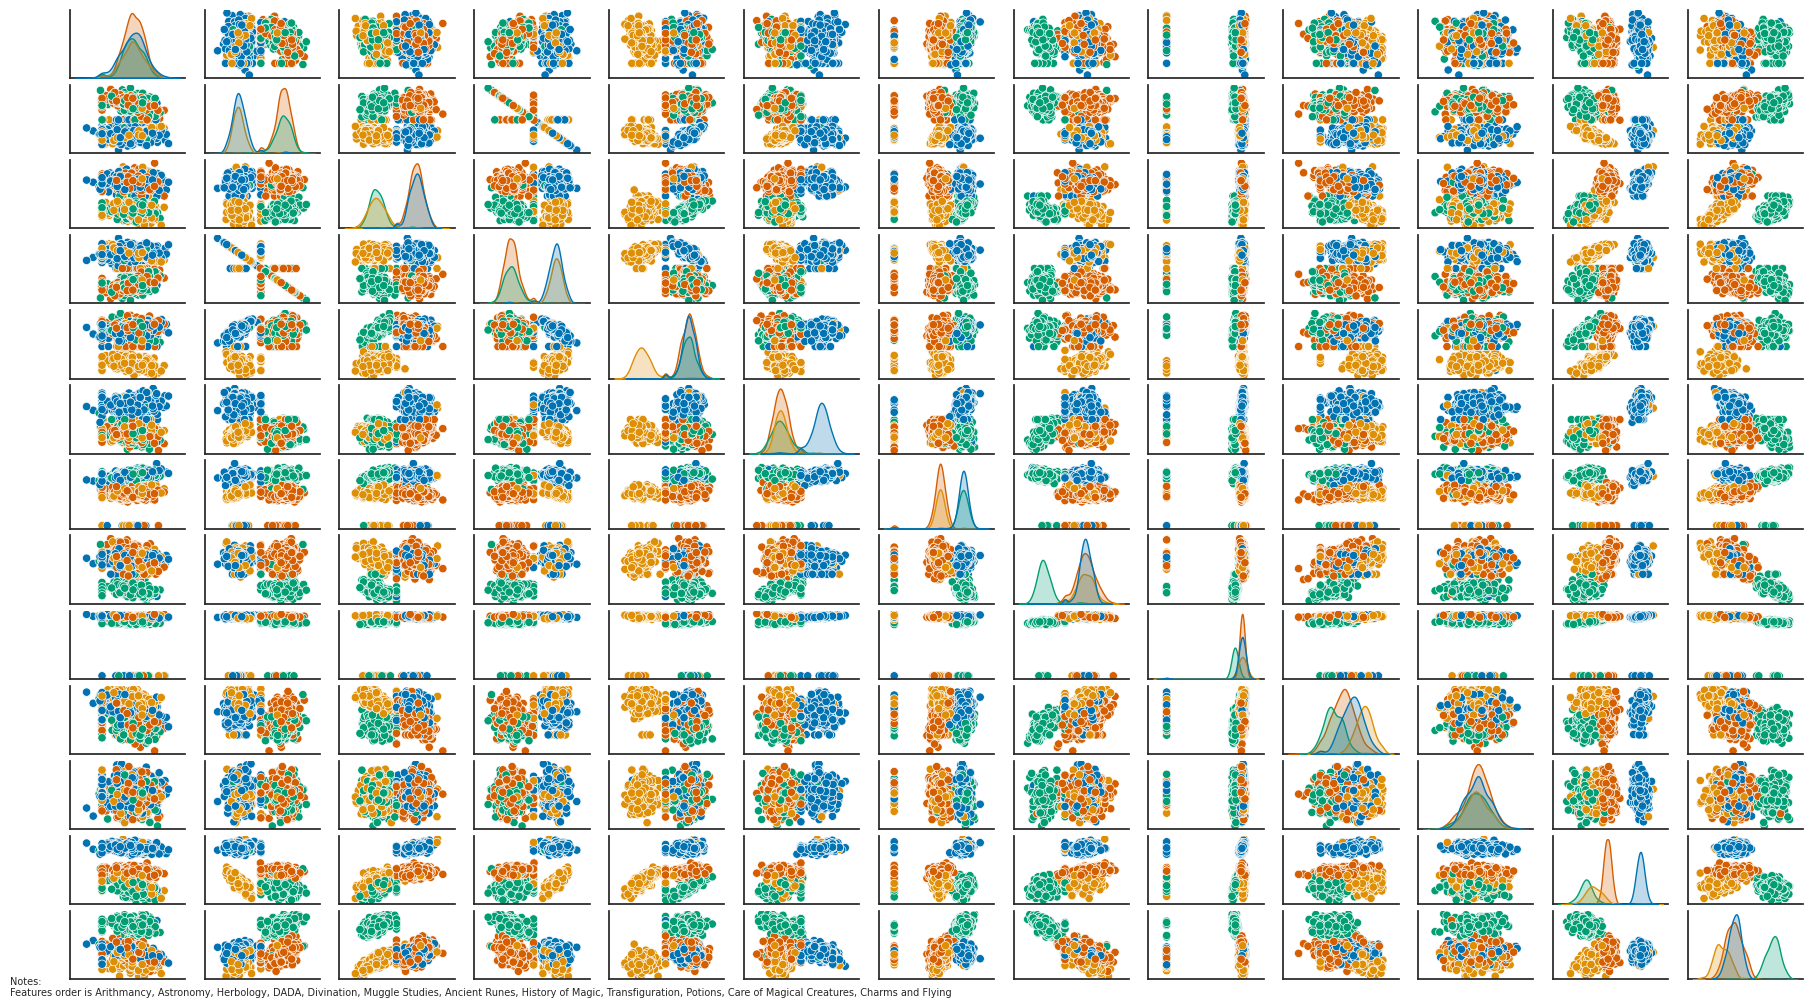
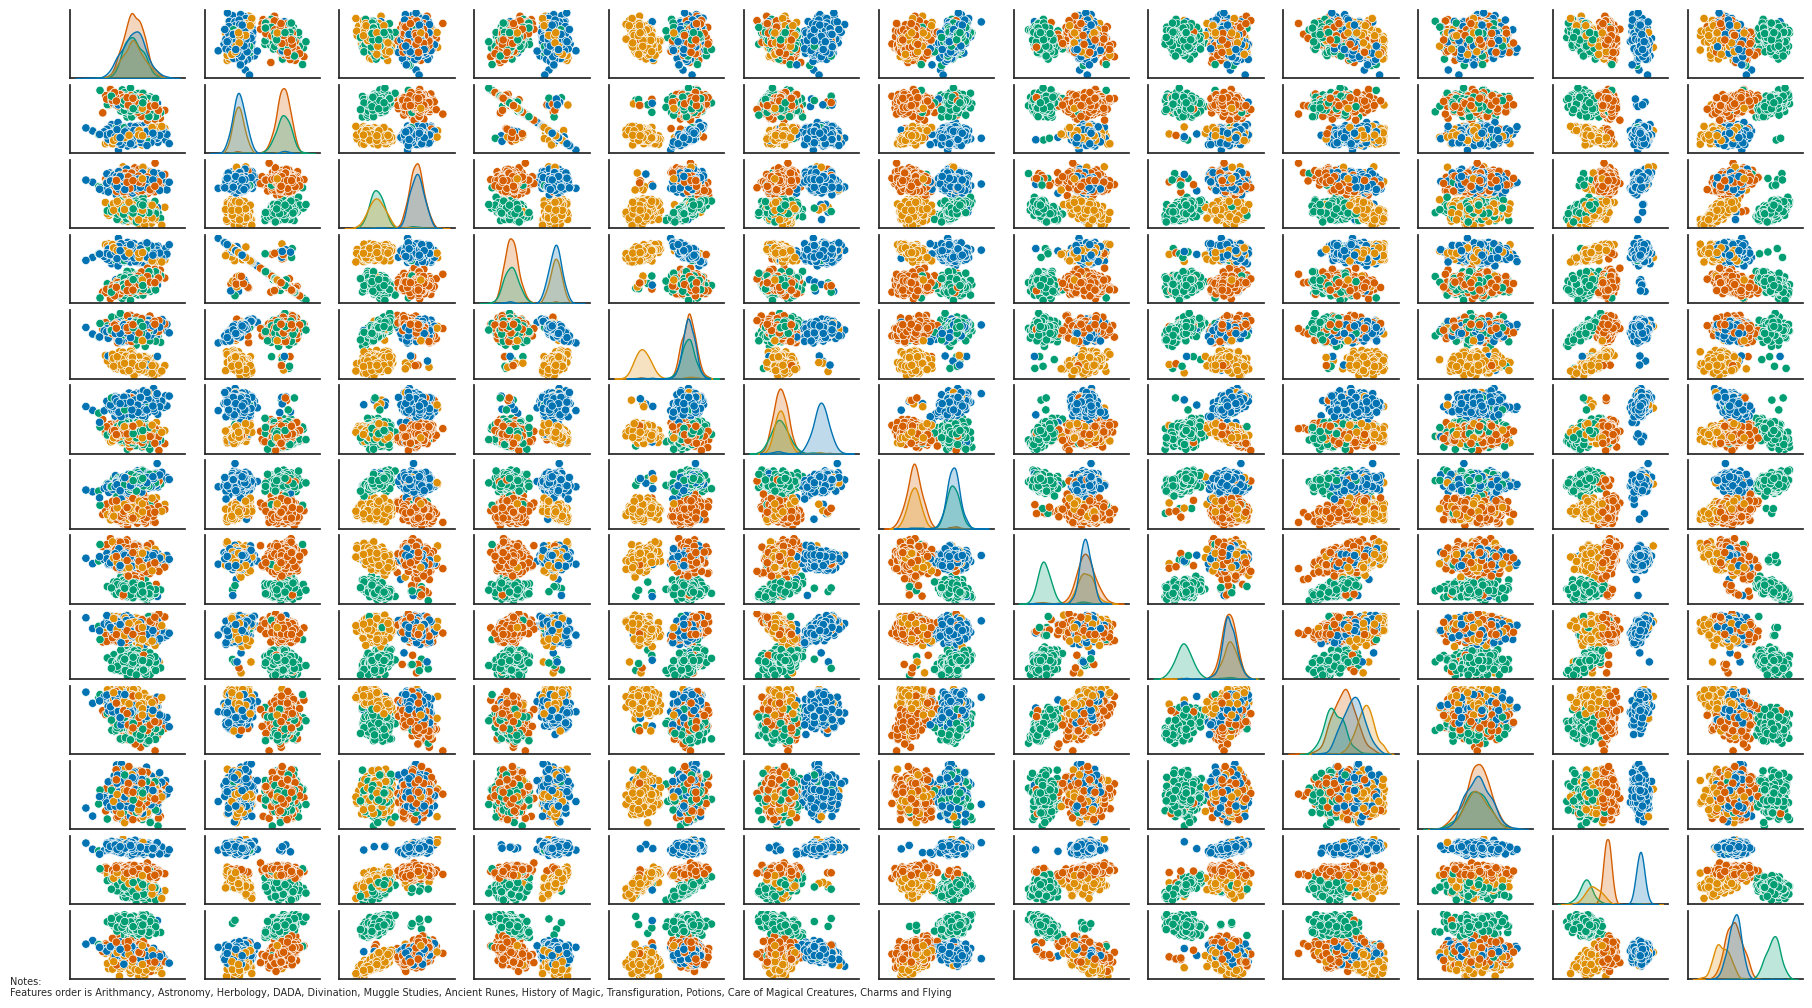
quick mods

diff --git a/pair_plot.py b/pair_plot.py
@@ -1,74 +1,3 @@
-# import pandas as pd
-# import seaborn as sns
-# import matplotlib.pyplot as plt
-# import tkinter as tk
-# from matplotlib.backends.backend_tkagg import FigureCanvasTkAgg
-# import sys
-
-# def pair_plots(dataset):
-#     """
-#     This function generates pair plots for all numerical features in the dataset.
-
-#     Parameters:
-#         - dataset: pandas DataFrame containing the dataset.
-
-#     Returns: none.
-#     """
-#     root = tk.Tk()
-#     root.title("Pair plots")
-#     screen_width = root.winfo_screenwidth()
-#     screen_height = root.winfo_screenheight()
-#     root.geometry(f"{screen_width}x{screen_height}+0+0")
-
-#     sns.set(style="ticks")
-#     g = sns.pairplot(dataset, diag_kind='kde', hue='Hogwarts House', palette='colorblind')
-
-#     for ax in g.axes.flatten():
-#         ax.set_xlabel('')
-#         ax.set_ylabel('')
-#         ax.tick_params(axis='both', which='both', length=0, labelleft=False, labelbottom=False, labeltop=False, labelright=False)
-
-#     g._legend.remove()
-
-#     note = "Notes:\nFeatures order is Arithmancy, Astronomy, Herbology, DADA, Divination, Muggle Studies, Ancient Runes, History of Magic, Transfiguration, Potions, Care of Magical Creatures, Charms and Flying"
-#     plt.text(0.01, 0.01, note, transform=plt.gcf().transFigure, fontsize=7, ha="left", va="bottom")
-
-#     canvas = FigureCanvasTkAgg(plt.gcf(), master=root)
-#     canvas.draw()
-#     canvas.get_tk_widget().pack(side=tk.TOP, fill=tk.BOTH, expand=1)
-
-#     root.mainloop()
-
-# def pair_plots_from_csv(path: str):
-#     """
-#     This function generates pair plots based on the provided dataset.
-
-#     Parameters: path of the dataset you want to visualize.
-
-#     Returns: none.
-#     """
-#     try:
-#         dataset = pd.read_csv(path, index_col=0)
-#         if not isinstance(dataset, pd.DataFrame):
-#             dataset = pd.DataFrame(dataset)
-
-#         dataset.rename(columns={"Defense Against the Dark Arts": "DADA"}, inplace=True)
-#         numerical_features = dataset.select_dtypes(include=['number'])
-#         dataset_to_display = dataset[numerical_features.columns].fillna(0, inplace=False)
-
-#         dataset_to_display['Hogwarts House'] = dataset['Hogwarts House']
-
-#         pair_plots(dataset_to_display)
-
-#     except Exception as e:
-#         print(f"Error: {e}")
-#         import traceback
-#         traceback.print_exc()
-
-# if __name__ == "__main__":
-#     av = sys.argv
-#     pair_plots_from_csv(av[1])
-
 import pandas as pd
 import seaborn as sns
 import matplotlib.pyplot as plt
@@ -126,7 +55,7 @@ def pair_plots_from_csv(path, save_path):
 
         dataset.rename(columns={"Defense Against the Dark Arts": "DADA"}, inplace=True)
         numerical_features = dataset.select_dtypes(include=['number'])
-        dataset_to_display = dataset[numerical_features.columns].fillna(0, inplace=False)
+        dataset_to_display = dataset[numerical_features.columns].ffill()
 
         dataset_to_display['Hogwarts House'] = dataset['Hogwarts House']
 

diff --git a/logreg_training.py b/logreg_training.py
@@ -1,9 +1,9 @@
 import pandas as pd
 import numpy as np
-import seaborn as sns
 import matplotlib.pyplot as plt
 from sklearn.preprocessing import LabelEncoder
 import joblib
+from scipy.special import expit
 import sys
 
 def feature_scaling(df):
@@ -49,7 +49,7 @@ def sigmoid(z):
     Returns:
         array-like: The output of the sigmoid function.
     """
-    return 1 / (1 + np.exp(-z))
+    return expit(z)
 
 # def logistic_loss(y_pred, y_true):
 #     """

diff --git a/histogram.py b/histogram.py
@@ -18,7 +18,7 @@ def create_histogram_figure(dataset, num_columns=4):
         axs (numpy.ndarray): Array of axes objects.
     """
     numerical_features = dataset.select_dtypes(include=['number'])
-    dataset_to_display = dataset[numerical_features.columns].fillna(0, inplace = False)
+    dataset_to_display = dataset[numerical_features.columns].ffill()
 
     columns_to_plot = dataset_to_display.columns
     categories = dataset["Hogwarts House"].unique()

diff --git a/scatter_plot.py b/scatter_plot.py
@@ -86,7 +86,7 @@ def scatter_plots_from_csv(path, save_path):
 
         dataset.rename(columns={"Defense Against the Dark Arts": "DADA"}, inplace=True)
         numerical_features = dataset.select_dtypes(include=['number'])
-        dataset_to_display = dataset[numerical_features.columns].fillna(0, inplace=False)
+        dataset_to_display = dataset[numerical_features.columns].ffill()
 
         columns_to_plot = dataset_to_display.columns
 

diff --git a/describe.py b/describe.py
@@ -12,7 +12,7 @@ def describe(path: str):
             dataset = pd.DataFrame(dataset)
 
         numerical_features = dataset.select_dtypes(include=['number'])
-        dataset_to_analyse = dataset[numerical_features.columns].fillna(0, inplace = False)
+        dataset_to_analyse = dataset[numerical_features.columns].ffill()
 
         stats = []
         for colonne in dataset_to_analyse.columns:

diff --git a/logreg_predictions.py b/logreg_predictions.py
@@ -1,6 +1,5 @@
 import pandas as pd
 import numpy as np
-import seaborn as sns
 import matplotlib.pyplot as plt
 from sklearn.preprocessing import LabelEncoder
 import logreg_training
